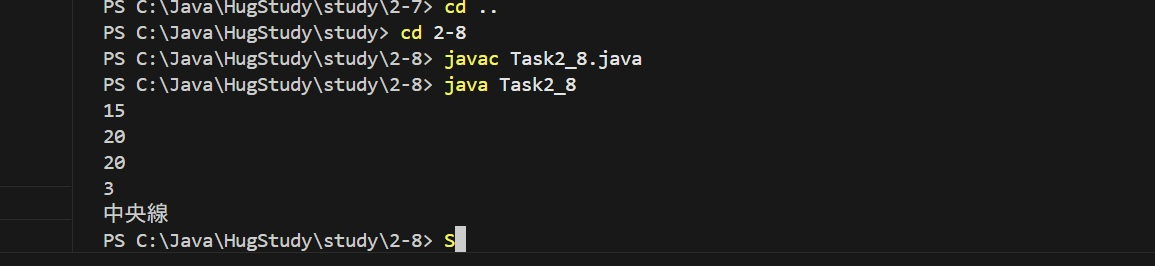
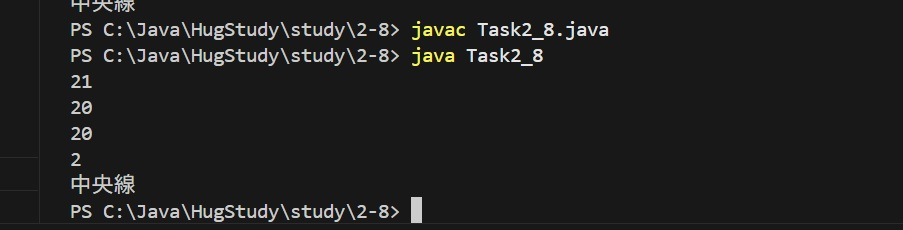
2-8

diff --git a/study/2-8/Task2_8.java b/study/2-8/Task2_8.java
@@ -20,7 +20,7 @@ public class Task2_8 {
 
 
     // ① 5 と 16 を加算した値を代入する、変数 plus を作成して下さい。
-    int plus = 5 + 10;
+    int plus = 5 + 16;
 
 
     // ② 27 から 7 を減算した値を代入する、変数 minus を作成して下さい。
@@ -33,7 +33,7 @@ public class Task2_8 {
 
 
     // ④ 20 を 6 で割った余りを代入する、変数 remi を作成して下さい。
-    int remi = 20 / 6;
+    int remi = 20 % 6;
 
 
     // ⑤下記の処理について、何をしているのかコメントを記入して下さい。
